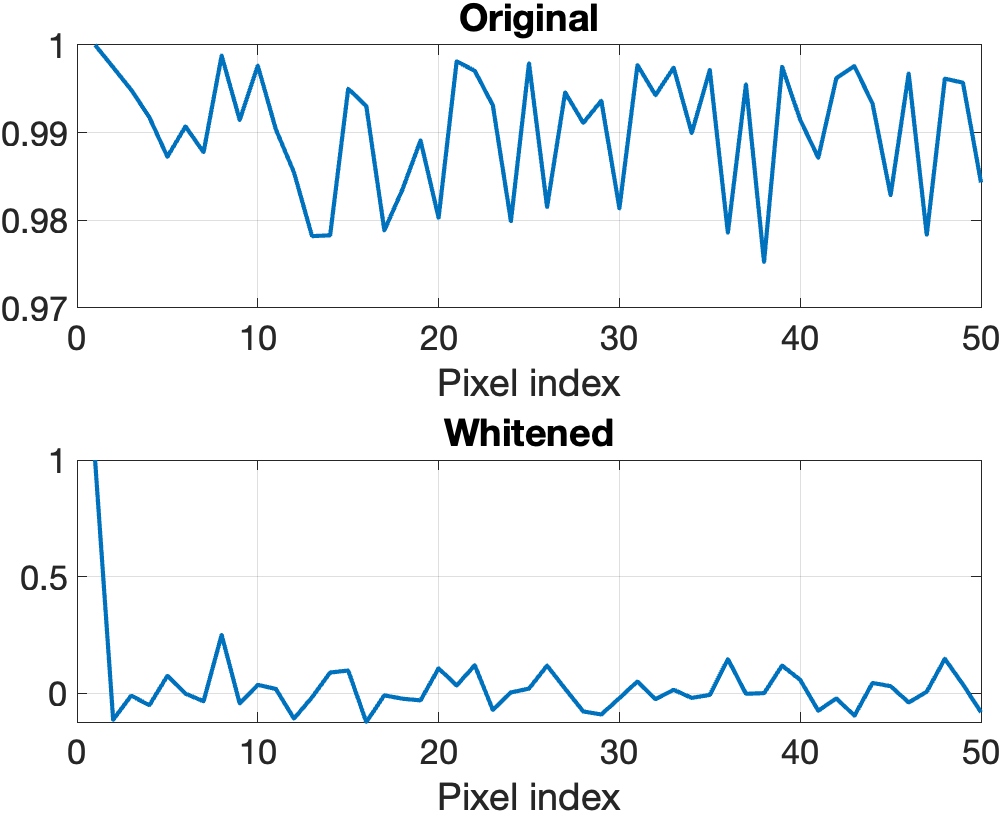
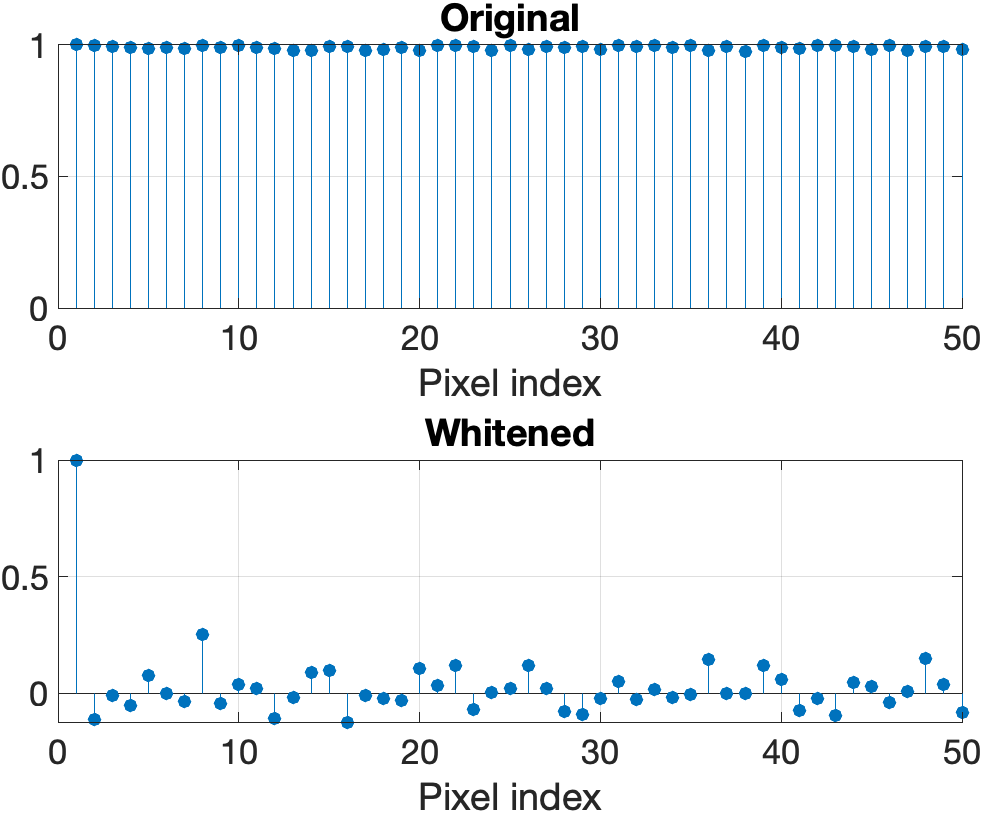
✨ 更新模版

diff --git a/Examples/Clustering.m b/Examples/Clustering.m
@@ -1,16 +1,17 @@
-%% 
+%%
 % Open it as live script!!!
-% 
+%
 % Load data.
 
 load('Data/cluster_data.mat');
 X = cluster_data;
-plot(X(:, 1), X(:, 2), '.');
-%% 
+figure, plot(X(:, 1), X(:, 2), '.');
+%%
 % k is the number of clusters.
 
 k = 3;
 X = (X - mean(X, 1)) ./ (max(X, [], 1) - min(X, [], 1));
 y = NSPC(X, k, 0.02);
 %%
-scatter(X(:, 1), X(:, 2), [], y);
+figure, scatter(X(:, 1), X(:, 2), [], y);
+axis equal

diff --git a/Document/code/target_detection_sam.m b/Document/code/target_detection_sam.m
@@ -40,11 +40,11 @@ R_ = X_(idx, :) * d_' ./ (X_norm_(idx) * d_norm_);
 % R_ = R_ / max(R_(:));
 
 figure;
-subplot(2, 1, 1), plot(R);
+subplot(2, 1, 1), stem(R, 'filled');
 xlabel('Pixel index');
 title('Original');
 
-subplot(2, 1, 2), plot(R_);
+subplot(2, 1, 2), stem(R_, 'filled');
 xlabel('Pixel index');
 title('Whitened');
 exportgraphics(gcf, '../img/sam_pixel.png');
